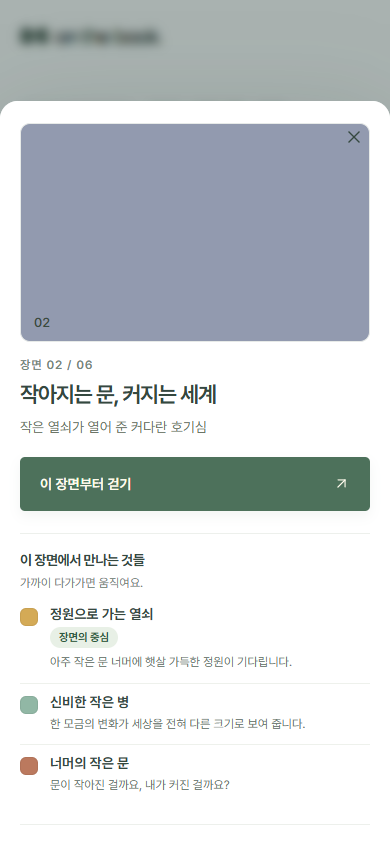
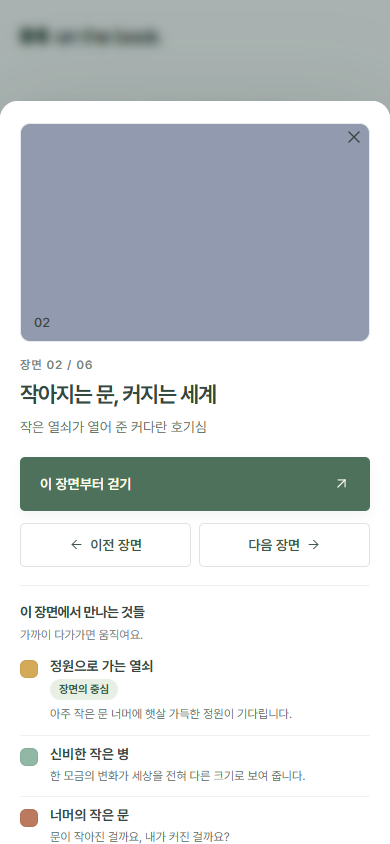
Move scene neighbours under the CTA and drop the preview and source
The scene panel no longer shows 미리 읽기 or the floor-reading note.
이전 장면 and 다음 장면 now sit right under 이 장면부터 걷기 as two
buttons of the same width; a missing side keeps a dimmed slot, and each
link's accessible name adds the target scene. The phone sheet shares the
markup.

The book detail's 원작 정보 section is gone with its markup, styles,
reveal selector and checks. The rights and source stay in the book data
and in the 3D world's 작품 소개 window.

Changed region(s): [[0.0308, 0.6161, 0.7692, 1.0], [0.6462, 0.6161, 0.7692, 0.6777], [0.0308, 0.955, 0.0923, 0.9858]]

diff --git a/tests/detail.test.js b/tests/detail.test.js
@@ -67,8 +67,8 @@ test("bookDetail opens the panel on the first scene when nothing is saved", () =
   assert.equal(count(html, 'data-enter-chapter="alice-1"'), 2);
   assert.match(html, /<div class="detail-cta"><small class="detail-cta-scene">01 · 흰 토끼를 따라서<\/small><button class="primary-button detail-enter" data-enter="alice" data-enter-chapter="alice-1">이 장면부터 걷기 /);
   assert.match(html, /<p class="reader-sr-only" id="scene-status" role="status"><\/p>/);
-  assert.match(html, /<h2 id="detail-source-title">원작 정보<\/h2>/);
-  assert.match(html, /href="https:\/\/www\.gutenberg\.org\/ebooks\/11" target="_blank" rel="noopener noreferrer">원작 정보 보기 ↗/);
+  // The left column ends with the intros; the source and rights stay in the 3D world's 작품 소개 window.
+  assert.doesNotMatch(html, /detail-source|원작 정보|gutenberg/);
   assert.doesNotMatch(html, /마지막에 머문 장면/);
 });
 
@@ -112,7 +112,7 @@ test("bookDetail escapes text and survives a chapter without placements", () => 
   assert.match(html, /장면 01 \/ 01/);
 });
 
-test("bookDetail puts the author and book intros between the journey and the source", () => {
+test("bookDetail puts the author and book intros after the journey, closing the left column", () => {
   const book = { ...alice, authorIntro: "첫 문단\n같은 문단의 둘째 줄\n\n  둘째 문단  ", bookIntro: "<b>책</b> 소개" };
   const html = bookDetail({ book, library });
   assert.match(html, /<section class="detail-section detail-intro" id="detail-author" aria-labelledby="detail-author-title"><div class="section-heading"><h2 id="detail-author-title">저자 소개<\/h2><\/div><p class="detail-intro-name">루이스 캐럴<\/p><div class="detail-prose"><p>첫 문단\n같은 문단의 둘째 줄<\/p><p>둘째 문단<\/p><\/div><\/section>/);
@@ -120,7 +120,7 @@ test("bookDetail puts the author and book intros between the journey and the sou
   const at = needle => html.indexOf(needle);
   assert.ok(at('id="detail-journey"') < at('id="detail-author"'));
   assert.ok(at('id="detail-author"') < at('id="detail-book-intro"'));
-  assert.ok(at('id="detail-book-intro"') < at('class="detail-source"'));
+  assert.match(html, /<p>&lt;b&gt;책&lt;\/b&gt; 소개<\/p><\/div><\/section>\s*<\/div>\s*<aside class="scene-panel"/);
   assert.doesNotMatch(html, /detail-intro-empty|준비 중이에요/);
 });
 
@@ -155,19 +155,20 @@ test("the book schema keeps the intros, fills them in for older data and caps th
   }
 });
 
-test("scenePanel shows the scene, the first paragraph only and the placements with the main one first", () => {
+test("scenePanel shows the scene, the neighbour buttons under the CTA and the placements with the main one first", () => {
   const html = scenePanel({ book: alice, chapter: alice.chapters[1], library });
   assert.match(html, /^<span class="scene-image image-placeholder" data-theme="night" role="img" aria-label="장면 이미지 준비 중"><span class="scene-number">02<\/span><\/span><span class="eyebrow">장면 02 \/ 06<\/span><h2 id="panel-scene-title">작아지는 문, 커지는 세계<\/h2><p class="detail-meta">작은 열쇠가 열어 준 커다란 호기심<\/p><button class="primary-button detail-enter" data-enter="alice" data-enter-chapter="alice-2">이 장면부터 걷기 /);
+  // Previous and next come straight after the CTA; the visible words stay the start of each accessible name.
+  assert.match(html, /이 장면부터 걷기 <i data-lucide="arrow-up-right" aria-hidden="true"><\/i><\/button><nav class="neighbor-nav" aria-label="이어지는 장면"><a class="neighbor-link" href="\?book=alice&amp;scene=alice-1" data-scene="alice-1" aria-label="이전 장면: 01 흰 토끼를 따라서"><i data-lucide="arrow-left" aria-hidden="true"><\/i> 이전 장면<\/a><a class="neighbor-link" href="\?book=alice&amp;scene=alice-3" data-scene="alice-3" aria-label="다음 장면: 03 버섯 숲의 수수께끼">다음 장면 <i data-lucide="arrow-right" aria-hidden="true"><\/i><\/a><\/nav><section class="panel-section" id="panel-figures"/);
+  assert.equal(count(html, 'class="neighbor-link"'), 2);
   assert.match(html, /<h3 id="panel-figures-title">이 장면에서 만나는 것들<\/h3><p class="panel-hint">가까이 다가가면 움직여요\.<\/p>/);
   assert.equal(count(html, 'class="figure-chip"'), 3);
   assert.match(html, /<strong>정원으로 가는 열쇠<\/strong><span class="journey-badge">장면의 중심<\/span><span class="figure-story">아주 작은 문 너머에 햇살 가득한 정원이 기다립니다\.<\/span>/);
   assert.equal(count(html, '<span class="journey-badge">장면의 중심</span>'), 1);
   assert.match(html, /class="figure-chip" style="background:#d4aa56"/);
-  assert.match(html, /<h3 id="panel-preview-title">미리 읽기<\/h3><div class="reading-text"><p>굴 아래에는 문이 가득한 긴 복도가 있었습니다\./);
-  assert.doesNotMatch(html, /작은 병과 케이크를 만난 앨리스/);
-  assert.match(html, /<p class="muted detail-note">이어지는 글은 3D 안에서 장면의 중심 모델에 다가가면 바닥 글귀로 읽을 수 있어요\.<\/p>/);
-  assert.equal(count(html, 'class="neighbor-link"'), 2);
-  assert.match(html, /<nav class="neighbor-nav" aria-label="이어지는 장면"><a class="neighbor-link" href="\?book=alice&amp;scene=alice-1" data-scene="alice-1"><i data-lucide="arrow-left" aria-hidden="true"><\/i> 01 흰 토끼를 따라서<\/a><a class="neighbor-link" href="\?book=alice&amp;scene=alice-3" data-scene="alice-3">03 버섯 숲의 수수께끼 <i data-lucide="arrow-right" aria-hidden="true"><\/i><\/a><\/nav>$/);
+  // The panel ends with the placements: no preview reading, no story text, no floor-reading note.
+  assert.match(html, /<\/ul><\/section>$/);
+  assert.doesNotMatch(html, /미리 읽기|reading-text|detail-note|바닥 글귀|panel-preview|굴 아래에는/);
   assert.doesNotMatch(html, /<main|detail-crumbs|neighbor-all|data-scene-book|마지막에 머문 장면|<img/);
 });
 
@@ -178,7 +179,6 @@ test("scenePanel marks the saved scene and keeps its ids unique with a prefix", 
   const sheet = scenePanel({ book: alice, chapter: alice.chapters[1], library, prefix: "sheet" });
   assert.match(sheet, /<h2 id="sheet-scene-title">/);
   assert.match(sheet, /id="sheet-figures" aria-labelledby="sheet-figures-title"/);
-  assert.match(sheet, /id="sheet-preview" aria-labelledby="sheet-preview-title"/);
   assert.doesNotMatch(sheet, /id="panel-|aria-labelledby="panel-/);
 });
 
@@ -194,29 +194,23 @@ test("scenePanel shows the studio thumbnail over the theme tint when one is regi
   assert.doesNotMatch(spiky, /aria-label="a"<b>/);
 });
 
-test("scenePanel drops the missing neighbour and the floor-reading note when the floor is off", () => {
+test("scenePanel keeps a dimmed slot for a missing neighbour so both buttons stay the same width", () => {
   const first = scenePanel({ book: alice, chapter: alice.chapters[0], library });
   assert.equal(count(first, 'class="neighbor-link"'), 1);
-  assert.match(first, /<nav class="neighbor-nav" aria-label="이어지는 장면"><span><\/span><a class="neighbor-link" href="\?book=alice&amp;scene=alice-2" data-scene="alice-2">02 작아지는 문, 커지는 세계/);
+  assert.match(first, /<nav class="neighbor-nav" aria-label="이어지는 장면"><span class="neighbor-link is-disabled" aria-hidden="true"><i data-lucide="arrow-left" aria-hidden="true"><\/i> 이전 장면<\/span><a class="neighbor-link" href="\?book=alice&amp;scene=alice-2" data-scene="alice-2" aria-label="다음 장면: 02 작아지는 문, 커지는 세계">다음 장면 /);
   assert.match(first, /장면 01 \/ 06/);
   const last = scenePanel({ book: alice, chapter: alice.chapters[5], library });
   assert.equal(count(last, 'class="neighbor-link"'), 1);
-  assert.match(last, /data-scene="alice-5">.*<\/a><span><\/span><\/nav>$/);
-  const silent = scenePanel({ book: alice, chapter: { ...alice.chapters[1], floorEnabled: false }, library });
-  assert.match(silent, /굴 아래에는 문이 가득한/);
-  assert.doesNotMatch(silent, /바닥 글귀로 읽을 수 있어요/);
+  assert.match(last, /data-scene="alice-5" aria-label="이전 장면: 05 장미 정원의 여왕"><i data-lucide="arrow-left" aria-hidden="true"><\/i> 이전 장면<\/a><span class="neighbor-link is-disabled" aria-hidden="true">다음 장면 <i data-lucide="arrow-right" aria-hidden="true"><\/i><\/span><\/nav>/);
 });
 
 test("scenePanel omits the sections that have nothing to show and escapes the placement colour", () => {
   const bare = { ...alice.chapters[2], body: "", placements: [], mainPlacementId: null };
   const html = scenePanel({ book: alice, chapter: bare, library });
-  assert.doesNotMatch(html, /id="panel-preview"|id="panel-figures"/);
+  assert.doesNotMatch(html, /id="panel-figures"/);
   assert.match(html, /class="neighbor-nav"/);
   assert.match(html, /data-scene="alice-2"/);
   assert.match(html, /data-scene="alice-4"/);
-  const single = scenePanel({ book: alice, chapter: { ...alice.chapters[2], body: "한 문단만 있어요." }, library });
-  assert.match(single, /<div class="reading-text"><p>한 문단만 있어요\.<\/p><\/div>/);
-  assert.doesNotMatch(single, /바닥 글귀로 읽을 수 있어요/);
   const unknownModel = scenePanel({ book: alice, chapter: { ...alice.chapters[2], placements: [{ ...alice.chapters[2].placements[0], modelId: "missing\">" }] }, library });
   assert.match(unknownModel, /style="background:var\(--accent\)"/);
   assert.doesNotMatch(unknownModel, /missing">/);

diff --git a/client/detail.js b/client/detail.js
@@ -1,4 +1,4 @@
-// Markup for the book detail page: the scrolling left column (hero, journey, author and book intros, source),
+// Markup for the book detail page: the scrolling left column (hero, journey, author and book intros),
 // the sticky scene panel, the phone bar and the phone sheet. No CSS or image imports here: `node --test` loads this file;
 // main.js imports detail.css.
 import { esc, icon } from "../shared/ui.js";
@@ -37,9 +37,6 @@ const themeChip = theme => `<span class="theme-chip" data-theme="${esc(theme)}" 
 
 const savedBadge = '<span class="journey-badge">마지막에 머문 장면</span>';
 
-const sourceNote = book =>
-  `<section class="detail-source" aria-labelledby="detail-source-title"><h2 id="detail-source-title">원작 정보</h2><p class="source-note">${esc(book.rights)}<br><a href="${esc(book.source)}" target="_blank" rel="noopener noreferrer">원작 정보 보기 ↗</a></p></section>`;
-
 // Blank lines split paragraphs. Stored data is not re-parsed, so a field added later may be missing.
 const paragraphsOf = text => String(text ?? "").split(/\n\s*\n/).map(p => p.trim()).filter(Boolean);
 
@@ -62,21 +59,20 @@ export function scenePanel({ book, chapter, library, progress = {}, preview = fa
   const index = indexOf(book, chapter);
   const previous = book.chapters[index - 1], next = book.chapters[index + 1];
   const saved = savedChapter(book, progress);
-  const paragraphs = paragraphsOf(chapter.body);
   const main = mainPlacement(chapter);
   const figures = main ? [main, ...chapter.placements.filter(p => p !== main)] : [];
   const colorOf = placement => library.models.find(m => m.id === placement.modelId)?.color || "var(--accent)";
-  const sceneLink = (target, label) =>
-    `<a class="neighbor-link" href="${esc(detailUrl({ book: book.id, scene: target.id, preview }))}" data-scene="${esc(target.id)}">${label}</a>`;
+  // Previous and next scene as two equal buttons under the CTA. The visible words open the accessible name, which
+  // adds the target scene. A missing side keeps a dimmed slot, hidden from assistive tech, so the widths match.
+  const neighbor = (target, label, content) => target
+    ? `<a class="neighbor-link" href="${esc(detailUrl({ book: book.id, scene: target.id, preview }))}" data-scene="${esc(target.id)}" aria-label="${label}: ${two(indexOf(book, target) + 1)} ${esc(target.title)}">${content}</a>`
+    : `<span class="neighbor-link is-disabled" aria-hidden="true">${content}</span>`;
+  const neighborNav = `<nav class="neighbor-nav" aria-label="이어지는 장면">${neighbor(previous, "이전 장면", `${icon("arrow-left")} 이전 장면`)}${neighbor(next, "다음 장면", `다음 장면 ${icon("arrow-right")}`)}</nav>`;
   const figureSection = figures.length
     ? `<section class="panel-section" id="${prefix}-figures" aria-labelledby="${prefix}-figures-title"><h3 id="${prefix}-figures-title">이 장면에서 만나는 것들</h3><p class="panel-hint">가까이 다가가면 움직여요.</p><ul class="figure-list">${figures.map(p => `<li><span class="figure-chip" style="background:${esc(colorOf(p))}" aria-hidden="true"></span><span class="figure-copy"><strong>${esc(p.title)}</strong>${p === main ? '<span class="journey-badge">장면의 중심</span>' : ""}${p.story ? `<span class="figure-story">${esc(p.story)}</span>` : ""}</span></li>`).join("")}</ul></section>`
     : "";
-  // Only the first paragraph is shown; the rest waits on the floor inside the 3D world.
-  const previewSection = paragraphs.length
-    ? `<section class="panel-section" id="${prefix}-preview" aria-labelledby="${prefix}-preview-title"><h3 id="${prefix}-preview-title">미리 읽기</h3><div class="reading-text"><p>${esc(paragraphs[0])}</p></div>${paragraphs.length > 1 && chapter.floorEnabled !== false ? '<p class="muted detail-note">이어지는 글은 3D 안에서 장면의 중심 모델에 다가가면 바닥 글귀로 읽을 수 있어요.</p>' : ""}</section>`
-    : "";
   // The image slot is always 16:10 in the panel; a studio thumbnail fills it over the theme tint.
-  return `<span class="scene-image image-placeholder${chapter.thumbnail ? " has-image" : ""}" data-theme="${esc(chapter.theme)}" role="img" aria-label="${chapter.thumbnail ? `${esc(chapter.title)} 장면 이미지` : "장면 이미지 준비 중"}">${chapter.thumbnail ? `<img src="${esc(chapter.thumbnail)}" alt="" decoding="async" draggable="false">` : ""}<span class="scene-number">${two(index + 1)}</span></span><span class="eyebrow">장면 ${two(index + 1)} / ${two(book.chapters.length)}</span><h2 id="${prefix}-scene-title">${esc(chapter.title)}</h2>${chapter.subtitle ? `<p class="detail-meta">${esc(chapter.subtitle)}</p>` : ""}${saved?.id === chapter.id ? savedBadge : ""}${enterButton(book, chapter)}${figureSection}${previewSection}<nav class="neighbor-nav" aria-label="이어지는 장면">${previous ? sceneLink(previous, `${icon("arrow-left")} ${two(index)} ${esc(previous.title)}`) : "<span></span>"}${next ? sceneLink(next, `${two(index + 2)} ${esc(next.title)} ${icon("arrow-right")}`) : "<span></span>"}</nav>`;
+  return `<span class="scene-image image-placeholder${chapter.thumbnail ? " has-image" : ""}" data-theme="${esc(chapter.theme)}" role="img" aria-label="${chapter.thumbnail ? `${esc(chapter.title)} 장면 이미지` : "장면 이미지 준비 중"}">${chapter.thumbnail ? `<img src="${esc(chapter.thumbnail)}" alt="" decoding="async" draggable="false">` : ""}<span class="scene-number">${two(index + 1)}</span></span><span class="eyebrow">장면 ${two(index + 1)} / ${two(book.chapters.length)}</span><h2 id="${prefix}-scene-title">${esc(chapter.title)}</h2>${chapter.subtitle ? `<p class="detail-meta">${esc(chapter.subtitle)}</p>` : ""}${saved?.id === chapter.id ? savedBadge : ""}${enterButton(book, chapter)}${neighborNav}${figureSection}`;
 }
 
 // The phone bar: the selected scene's number and title beside the entry button.
@@ -100,7 +96,6 @@ export function bookDetail({ book, library, progress = {}, preview = false, chap
       <section class="detail-section" id="detail-journey" aria-labelledby="detail-journey-title"><div class="section-heading"><div><h2 id="detail-journey-title">이 책의 여정</h2><p><span class="journey-hint journey-hint--wide">장면을 고르면 오른쪽에서 그 장면을 먼저 볼 수 있어요.</span><span class="journey-hint journey-hint--narrow">장면을 고르면 그 장면을 먼저 볼 수 있어요.</span></p></div></div><ol class="journey-list">${rows}</ol></section>
       ${introSection({ id: "detail-author", title: "저자 소개", text: book.authorIntro, pending: "저자 소개를 준비 중이에요.", name: book.author })}
       ${introSection({ id: "detail-book-intro", title: "책 소개", text: book.bookIntro, pending: "책 소개를 준비 중이에요." })}
-      ${sourceNote(book)}
     </div>
     <aside class="scene-panel" aria-labelledby="panel-scene-title">${scenePanel({ book, chapter, library, progress, preview })}</aside>
     <div class="detail-cta">${sceneBar({ book, chapter })}</div>

diff --git a/client/detail.css b/client/detail.css
@@ -42,9 +42,6 @@
 .theme-chip[data-theme="tea"], .scene-image[data-theme="tea"] { background: #d7c9b6; }
 .theme-chip[data-theme="rose"], .scene-image[data-theme="rose"] { background: #d8c6b7; }
 .theme-chip[data-theme="gold"], .scene-image[data-theme="gold"] { background: #dcca98; }
-.detail-source { padding-top: 34px; margin-top: 34px; }
-.detail-source h2 { margin: 0 0 10px; font-size: 15px; color: #4f5f56; }
-.detail-source .source-note { padding: 0; border: 0; font-size: 12px !important; line-height: 1.8; color: #7f8982; }
 /* The scene panel is fixed at the screen's height, 24px clear above and below, and does not move while the page
    scrolls. A taller panel scrolls inside, with no visible scrollbar. Its right edge meets the .store-content box
    (1280px column, 40px gutters above 850px). z-index 4 lifts it over the header row (3); toasts and the curtain
@@ -72,13 +69,12 @@
 .figure-copy strong { font-size: 14px; font-weight: 650; }
 .figure-copy .journey-badge { align-self: flex-start; }
 .figure-story { font-size: 12px; line-height: 1.65; color: #6b776f; }
-.panel-section .reading-text { margin: 0; font-size: 14px; }
-.detail-note { margin: 10px 0 0; font-size: 12px; }
-.neighbor-nav { display: flex; justify-content: space-between; gap: 12px; margin-top: 18px; padding-top: 14px; border-top: 1px solid #edf0ec; font-size: 13px; }
-.neighbor-link { display: inline-flex; align-items: center; gap: 8px; font-weight: 600; color: #3f5a49; }
-.neighbor-link:hover { color: var(--accent); text-decoration: none; }
+/* Previous and next: two buttons of the same width right under the CTA. A missing side stays as a dimmed slot. */
+.neighbor-nav { display: grid; grid-template-columns: 1fr 1fr; gap: 8px; margin-top: 8px; }
+.neighbor-link { display: flex; align-items: center; justify-content: center; gap: 6px; min-height: 44px; padding: 10px 12px; border: 1px solid #dfe5de; border-radius: 5px; background: #fff; color: #3f5a49; font-size: 14px; font-weight: 600; white-space: nowrap; }
+.neighbor-link:hover { border-color: var(--accent); color: var(--accent); text-decoration: none; }
+.neighbor-link.is-disabled { border-color: #edf0ec; background: #f7f9f6; color: #b2bbb4; }
 .neighbor-link svg { width: 15px; height: 15px; }
-.neighbor-nav > :last-child { text-align: right; }
 .detail-enter { gap: 14px; padding: 14px 20px; font-size: 14px; font-weight: 600; }
 .detail-enter svg { width: 17px; height: 17px; }
 /* The phone bar exists in the markup at every width but only shows in the one-column layout. */
@@ -101,7 +97,6 @@
   .detail-cta { display: flex; align-items: center; justify-content: space-between; gap: 12px; order: 99; position: sticky; bottom: 0; z-index: 5; margin: 0 -24px; padding: 10px 24px calc(10px + env(safe-area-inset-bottom)); background: #fff; border-top: 1px solid var(--line); }
   .detail-cta-scene { min-width: 0; overflow: hidden; text-overflow: ellipsis; white-space: nowrap; font-size: 13px; color: #4f5f56; }
   .detail-cta .primary-button { flex: none; }
-  .detail-source { padding-bottom: 8px; }
 }
 @media (max-width: 600px) {
   .detail-hero { grid-template-columns: 112px minmax(0, 1fr); gap: 18px; align-items: start; }

diff --git a/client/transitions.js b/client/transitions.js
@@ -39,7 +39,7 @@ function reveal(app) {
   const groups = app.querySelector(".library-page")
     ? [".site-header", ".featured-section", ".quick-menu", ".catalog", ".scene-section, .experience-banner", ".site-footer"]
     : app.querySelector(".detail-page")
-      ? [".site-header", ".detail-hero", "#detail-journey, .detail-intro, .detail-source", ".scene-panel, .detail-cta"]
+      ? [".site-header", ".detail-hero", "#detail-journey, .detail-intro", ".scene-panel, .detail-cta"]
       : [".site-header", ".journey-controls", ".touch-pad, .move-hint", ".site-footer"];
   groups.forEach((selector, index) => {
     for (const element of app.querySelectorAll(selector)) {

diff --git a/docs/superpowers/specs/2026-09-28-detail-pages-design.md b/docs/superpowers/specs/2026-09-28-detail-pages-design.md
@@ -7,7 +7,7 @@
 - 처음에는 작품 상세(`?book=`)와 장면 상세(`?book=&scene=`) 두 페이지(두 뎁스)로 설계·구현했다(PR #3, 커밋 c60f7b6 까지). 같은 날 사용자가 밀리의서재 도서 상세처럼 **한 페이지 두 열**로 합치기로 결정했다. 왼쪽 열은 스크롤되는 작품 정보와 장면 목록, 오른쪽은 스크롤을 따라다니는 장면 패널이다.
 - 이 문서는 그 결정 이후의 최종 설계다. 두 뎁스 구현에서 바뀌는 점은 18절에 모았고, 구현 계획은 그 차이만 다룬다.
 - 그보다 앞서 정한 것(카드가 링크가 되는 홈 변경, 주소 규칙의 골격, `book-meta.js`·`detail.js` 분리, 표지·썸네일 표시)은 그대로 유효하다.
-- 2026-09-29 사용자 요청으로 두 가지를 더했다. 장면 패널과 시트의 스크롤바를 숨겼고(5절), '이 책의 여정' 다음에 저자 소개·책 소개 섹션과 이를 입력하는 관리자 칸을 넣었다(19절). 처음에는 빈 칸의 섹션을 숨겼으나, 같은 날 사용자 요청으로 섹션을 두고 '준비 중' 문구를 보이게 바꿨다. 이어서 왼쪽 열 섹션 사이의 구분선을 모두 없앴다(6절). 그다음 작품 상세에서 푸터와 헤더의 소개·책장으로·물음표를 빼 로고만 남기고, 장면 패널을 스크롤을 따라오는 sticky 대신 화면 높이에 고정했다(5절).
+- 2026-09-29 사용자 요청으로 두 가지를 더했다. 장면 패널과 시트의 스크롤바를 숨겼고(5절), '이 책의 여정' 다음에 저자 소개·책 소개 섹션과 이를 입력하는 관리자 칸을 넣었다(19절). 처음에는 빈 칸의 섹션을 숨겼으나, 같은 날 사용자 요청으로 섹션을 두고 '준비 중' 문구를 보이게 바꿨다. 이어서 왼쪽 열 섹션 사이의 구분선을 모두 없앴다(6절). 그다음 작품 상세에서 푸터와 헤더의 소개·책장으로·물음표를 빼 로고만 남기고, 장면 패널을 스크롤을 따라오는 sticky 대신 화면 높이에 고정했다(5절). 마지막으로 패널의 미리 읽기와 그 아래 글을 없애고 이전·다음을 CTA 아래 같은 너비의 버튼 둘로 옮겼으며(7절), 왼쪽 열의 원작 정보 섹션을 없앴다(6절).
 
 ## 1. 배경과 목표
 
@@ -26,7 +26,7 @@
 ## 2. 범위와 비범위
 
 범위
-- 작품 상세 한 화면(`?book=`, `?book=&scene=`). 두 열 뼈대, 왼쪽 열(히어로·여정·저자 소개·책 소개·원작 정보), 오른쪽 장면 패널, 850px 이하의 장면 시트와 하단 고정 CTA.
+- 작품 상세 한 화면(`?book=`, `?book=&scene=`). 두 열 뼈대, 왼쪽 열(히어로·여정·저자 소개·책 소개), 오른쪽 장면 패널, 850px 이하의 장면 시트와 하단 고정 CTA.
 - 홈 카드 연결(도서 카드, 장면 카드, 추천 히어로 카드, "읽던 이야기" 카드). 직행 경로는 남기지 않는다.
 - 주소 해석, 브라우저 히스토리, 커튼 전환, 초점 이동, 책장 위치 복원, 장면 선택의 주소 반영.
 - 검사(`tests/detail.test.js`, `tests/catalog.mjs`, `tests/mobile-entry.mjs`, `tests/home-admin.mjs` 의 상세 부분, `tests/capture.mjs`), README, `docs/ADMIN-GUIDE.md`, `client/index.html` 설명 문구, 전환 스펙 10절.
@@ -81,7 +81,7 @@
 
 - 장면 선택은 히스토리 항목을 만들지 않는다. 3D 월드에서 뒤로가기를 누르면 마지막에 선택했던 장면이 주소에 남아 있어 그 장면이 선택된 작품 상세로 돌아온다. 한 번 더 누르면 홈이다.
 - 홈에서 상세로 갈 때 `catalogState.scroll` 과 누른 카드의 선택자(`[data-book="alice"]`, `[data-scene-chapter="alice-2"]`, `[data-feature-book="alice"]`)를 저장하고 `restoreCatalogPosition()` 이 초점을 되돌린다(기존).
-- 장면을 고르면 초점은 누른 여정 행(또는 패널의 이전·다음 링크)에 남는다. 패널은 안쪽 스크롤을 맨 위로 되돌리고, 시각적으로 숨긴 `role="status"` 문구 "`02 작아지는 문, 커지는 세계` 장면을 골랐어요"가 바뀐다. 패널 전체를 `aria-live` 로 두면 매번 패널을 통째로 읽어 주므로 그렇게 하지 않는다.
+- 장면을 고르면 초점은 누른 여정 행(또는 패널의 이전·다음 버튼)에 남는다. 새 패널에서 같은 쪽 버튼이 흐린 자리면 CTA 로 옮긴다. 패널은 안쪽 스크롤을 맨 위로 되돌리고, 시각적으로 숨긴 `role="status"` 문구 "`02 작아지는 문, 커지는 세계` 장면을 골랐어요"가 바뀐다. 패널 전체를 `aria-live` 로 두면 매번 패널을 통째로 읽어 주므로 그렇게 하지 않는다.
 - `popstate` 는 열린 `dialog`(장면 시트 포함)를 닫고 `resolveView()` 결과로 다시 그린다. 홈으로 돌아온 경우에만 `restoreCatalogPosition()` 을 부른다(기존).
 
 ## 5. 공통 셸과 두 열 뼈대
@@ -96,8 +96,7 @@ main.detail-page.store-content#main-content[data-view="book"]
     section.detail-hero           표지·분류·제목·저자·소개
     section.detail-section#detail-journey   이 책의 여정(장면 목록)
     section.detail-section.detail-intro#detail-author       저자 소개(비어 있으면 준비 중 문구, 19절)
-    section.detail-section.detail-intro#detail-book-intro   책 소개(비어 있으면 준비 중 문구, 19절)
-    section.detail-source         원작 정보
+    section.detail-section.detail-intro#detail-book-intro   책 소개(비어 있으면 준비 중 문구, 19절). 왼쪽 열의 끝
   aside.scene-panel[aria-labelledby="panel-scene-title"]   오른쪽 열. 화면 높이에 고정(fixed)
     (7절의 패널 내용)
   div.detail-cta                  850px 이하에서만 보이는 하단 고정 바
@@ -107,14 +106,14 @@ main.detail-page.store-content#main-content[data-view="book"]
 - 1101px 이상: `grid-template-columns: minmax(0, 1fr) 400px`, 열 간격 48px. 851~1100px: 오른쪽 열 340px, 간격 32px. 850px 이하: 한 열. `.store-content` 로 홈과 같은 1280px 폭과 좌우 여백을 쓴다.
 - 오른쪽 `aside.scene-panel` 은 `position: fixed; top: 24px; bottom: 24px` 로 화면 높이(위아래 24px 여백)에 고정되어, 페이지 맨 위에서 끝까지 스크롤해도 같은 자리에 있다(2026-09-29 사용자 요청. 그 전에는 `position: sticky` 라 맨 위에서는 헤더 아래에 있다가 스크롤하면 올라와 붙었다). 오른쪽 끝은 `.store-content` 콘텐츠 상자의 오른쪽 끝에 맞춘다(`right: max(40px, calc((100% - 1280px) / 2 + 40px))`, 851px 이상의 좌우 여백 40px). 폭은 격자의 오른쪽 열과 같은 400px(1100px 이하 340px)이고, 격자의 오른쪽 열은 비워 둬서 왼쪽 열 폭은 그대로다. `z-index: 4` 로 헤더 줄(3) 위, 알림(100)·커튼(1000) 아래에 둔다. 패널이 화면보다 길면 패널 안에서만 스크롤되고, 스크롤바는 보이지 않게 숨긴다(`scrollbar-width: none`, 사파리용 `::-webkit-scrollbar`). 흰 배경, 1px 경계선(`#e7ebe7`), 모서리 14px, 안쪽 여백 20px.
 - 850px 이하에서는 `aside.scene-panel` 을 `display: none` 으로 숨긴다. 같은 내용은 여정 행을 눌렀을 때 장면 시트(7절)로 보인다. 하단 고정 바 `.detail-cta` 는 851px 이상에서 `display: none` 이다. 그래서 어떤 폭에서도 보이는 CTA 는 하나이고, 숨긴 쪽은 접근성 트리에서도 빠진다.
-- 등장 순서: `transitions.js` 의 `reveal()` 에서 `.detail-page` 그룹은 `[".site-header", ".detail-hero", "#detail-journey, .detail-intro, .detail-source", ".scene-panel, .detail-cta"]` 다(작품 상세에는 푸터가 없다).
+- 등장 순서: `transitions.js` 의 `reveal()` 에서 `.detail-page` 그룹은 `[".site-header", ".detail-hero", "#detail-journey, .detail-intro", ".scene-panel, .detail-cta"]` 다(작품 상세에는 원작 정보와 푸터가 없다).
 - 전환 후 초점은 `h1#detail-title`(책 제목, `tabindex="-1"`). `transitionPage()` 의 기본 초점 대상 순서 `#library-title` → `#detail-title` → `#world canvas, #fallback-read` 는 기존과 같다.
 
 ## 6. 왼쪽 열
 
 `client/detail.js` 의 `bookDetail({ book, chapter, library, progress, preview })` 가 페이지 전체(왼쪽 열 + 패널 + 하단 바 + 상태 문구)를 돌려준다. `chapter` 는 선택된 장면이다.
 
-왼쪽 열의 섹션(히어로, 이 책의 여정, 저자 소개, 책 소개, 원작 정보) 사이에는 구분선이 없고 여백으로만 나눈다. 섹션 위 여백은 70px(600px 이하 58px), 원작 정보 위는 68px 다. 여정 목록의 행 구분선, 장면 패널 안의 구분선, 푸터 위 선은 그대로 둔다(2026-09-29 사용자 요청).
+왼쪽 열의 섹션(히어로, 이 책의 여정, 저자 소개, 책 소개) 사이에는 구분선이 없고 여백으로만 나눈다. 섹션 위 여백은 70px(600px 이하 58px)다. 여정 목록의 행 구분선과 장면 패널 안의 구분선은 그대로 둔다(2026-09-29 사용자 요청).
 
 히어로 `.detail-hero`
 - 왼쪽: `bookCover(book)` 자리(`.catalog-cover.image-placeholder`, 2:2.85). 표지가 등록되어 있으면 그 `<img>`(`alt=""`), 없으면 `role="img" aria-label="표지 이미지 준비 중"` 인 빈 자리. 데스크톱 160px, 600px 이하 112px, 370px 이하에서는 위로 올라가 가운데 130px.
@@ -129,10 +128,10 @@ main.detail-page.store-content#main-content[data-view="book"]
 - 대표 모델은 `chapter.mainPlacementId` 가 가리키는 배치의 `title`, 없으면 첫 배치, 배치가 없으면 생략. 테마 칩 색은 meadow `#cad7aa`, night `#929aaf`, tea `#d7c9b6`, rose `#d8c6b7`, gold `#dcca98`(3D 월드 바닥색).
 
 저자 소개·책 소개 `.detail-section.detail-intro`
-- 여정 다음, 원작 정보 앞에 저자 소개, 책 소개 순서로 늘 놓는다. 비어 있으면 본문 자리에 준비 중 문구를 보인다. 자세한 규칙은 19절.
+- 여정 다음에 저자 소개, 책 소개 순서로 늘 놓고, 책 소개가 왼쪽 열의 끝이다. 비어 있으면 본문 자리에 준비 중 문구를 보인다. 자세한 규칙은 19절.
 
-원작 정보 `.detail-source`
-- `h2` "원작 정보", `p.source-note` 에 `book.rights`, 줄 바꿈, `<a href="{book.source}" target="_blank" rel="noopener noreferrer">원작 정보 보기 ↗</a>`.
+원작 정보
+- 2026-09-29 사용자 요청으로 작품 상세의 원작 정보 섹션(`.detail-source`, 권리 문구와 "원작 정보 보기 ↗")과 그 전용 코드·CSS·검사를 없앴다. 책 데이터의 `rights`·`source` 와 관리자 입력 칸, 공개 조건은 그대로이고, 권리·출처는 3D 공간 안의 "작품 소개" 창에서 계속 보인다.
 
 ## 7. 장면 패널
 
@@ -142,11 +141,10 @@ main.detail-page.store-content#main-content[data-view="book"]
 1. 이미지 `.scene-image.image-placeholder[data-theme]`: 패널 폭 전체, **항상 16:10**(`aspect-ratio: 16 / 10`), 모서리 10px, 배경은 테마 칩 색, 왼쪽 아래 `.scene-number` "02". 썸네일(`chapter.thumbnail`)이 있으면 `.has-image` 를 더하고 `<img>`(`alt=""`, `object-fit: cover`)가 자리를 채우며 번호는 밝은 알약 모양으로 위에 남는다. 이름표는 썸네일이 있으면 `aria-label="{장면 제목} 장면 이미지"`, 없으면 `"장면 이미지 준비 중"`. 패널이 좁아(340~400px) 16:10 이미지가 그대로 들어가므로 예전의 가로 띠와 잘림 문제가 없다.
 2. `.eyebrow` "`장면 02 / 06`", `h2#panel-scene-title` 장면 제목, `p.detail-meta` 부제(비어 있으면 생략). 저장된 장면이면 제목 아래에 배지 "마지막에 머문 장면".
 3. CTA: `<button class="primary-button detail-enter" data-enter="alice" data-enter-chapter="alice-2">이 장면부터 걷기 ↗</button>`, 패널 폭 전체. 저장된 장면과 같아도 문구는 바꾸지 않는다. 어느 장면이든 들어가면 그 장면이 저장된 장면이 된다(기존 규칙).
-4. 이 장면에서 만나는 것들 `#panel-figures`: `h3` "이 장면에서 만나는 것들", 설명 "가까이 다가가면 움직여요.", `<ul class="figure-list">` 한 열. 배치는 대표 배치(`mainPlacementId`)가 먼저, 나머지는 원래 순서. 각 `li`: 색 칩 `.figure-chip`(모델 `color`, 없으면 `--accent`), `strong` 제목, `span.figure-story` 이야기(비어 있으면 생략), 대표 배치에만 배지 "장면의 중심". 배치가 없으면 이 묶음을 만들지 않는다.
-5. 미리 읽기 `#panel-preview`: `h3` "미리 읽기", `chapter.body` 를 `\n\n` 으로 나눈 첫 문단만 `.reading-text p`. 문단이 둘 이상이고 `chapter.floorEnabled !== false` 이면 `p.muted` "이어지는 글은 3D 안에서 장면의 중심 모델에 다가가면 바닥 글귀로 읽을 수 있어요.". 본문이 비어 있으면 이 묶음을 만들지 않는다. `floorText` 는 쓰지 않는다.
-6. 이어지는 장면 `nav.neighbor-nav[aria-label="이어지는 장면"]`: 왼쪽 "← 01 흰 토끼를 따라서", 오른쪽 "03 버섯 숲의 수수께끼 →". 링크는 `a.neighbor-link[href={detailUrl scene}][data-scene]` 이고 여정 행과 같은 규칙으로 선택을 바꾼다. 첫 장면은 이전을, 마지막 장면은 다음을 만들지 않는다. "작품 전체 보기"와 브레드크럼은 없다. 작품이 바로 왼쪽에 있기 때문이다.
+4. 이어지는 장면 `nav.neighbor-nav[aria-label="이어지는 장면"]`: CTA 바로 아래에 같은 너비의 버튼 두 개(`grid-template-columns: 1fr 1fr`, 간격 8px, 높이 44px, 모서리 5px, 흰 바탕에 1px 테두리). 왼쪽 "← 이전 장면", 오른쪽 "다음 장면 →". 링크는 `a.neighbor-link[href={detailUrl scene}][data-scene]` 이고, `aria-label` 은 보이는 글 뒤에 대상 장면을 붙인 "이전 장면: 01 흰 토끼를 따라서" 꼴이다. 여정 행과 같은 규칙으로 선택을 바꾼다. 첫 장면의 이전과 마지막 장면의 다음은 흐린 자리 `span.neighbor-link.is-disabled[aria-hidden="true"]` 로 남겨 두 버튼의 폭을 맞춘다. "작품 전체 보기"와 브레드크럼은 없다. 작품이 바로 왼쪽에 있기 때문이다(2026-09-29 사용자 요청으로 패널 맨 아래의 글자 링크에서 이 버튼으로 바꿨다).
+5. 이 장면에서 만나는 것들 `#panel-figures`: `h3` "이 장면에서 만나는 것들", 설명 "가까이 다가가면 움직여요.", `<ul class="figure-list">` 한 열. 배치는 대표 배치(`mainPlacementId`)가 먼저, 나머지는 원래 순서. 각 `li`: 색 칩 `.figure-chip`(모델 `color`, 없으면 `--accent`), `strong` 제목, `span.figure-story` 이야기(비어 있으면 생략), 대표 배치에만 배지 "장면의 중심". 배치가 없으면 이 묶음을 만들지 않는다.
 
-패널의 제목 위계: 페이지의 `h1` 은 책 제목 하나이고 패널 제목은 `h2`, 패널 안 묶음은 `h3` 이다. 여정과 원작 정보의 `h2` 와 나란하다.
+패널의 제목 위계: 페이지의 `h1` 은 책 제목 하나이고 패널 제목은 `h2`, 패널 안 묶음은 `h3` 이다. 여정·저자 소개·책 소개의 `h2` 와 나란하다.
 
 850px 이하의 장면 시트
 - 여정 행을 누르면 기존 `modal()` 로 `<dialog class="modal scene-sheet">` 를 열고 그 안에 `scenePanel()` 결과를 넣는다. 시트는 화면 아래에서 올라오는 모양(`position: fixed; inset: auto 0 0 0; max-height: 88dvh; border-radius: 18px 18px 0 0`)이고 안쪽 스크롤을 가지며, 패널처럼 스크롤바는 숨긴다. 닫기 버튼·배경 클릭·Esc 는 `modal()` 의 기존 동작이며 닫히면 초점이 누른 행으로 돌아간다(`modal()` 이 이전 초점을 복원한다).
@@ -205,15 +203,14 @@ admin/
 | --- | --- |
 | 커튼 | 작품을 펼치는 중이에요… |
 | CTA | 이 장면부터 걷기 |
-| 섹션 제목 | 이 책의 여정 / 원작 정보 / 이 장면에서 만나는 것들 / 미리 읽기 |
+| 섹션 제목 | 이 책의 여정 / 저자 소개 / 책 소개 / 이 장면에서 만나는 것들 |
 | 섹션 설명 | 장면을 고르면 오른쪽에서 그 장면을 먼저 볼 수 있어요.(851px 이상) / 장면을 고르면 그 장면을 먼저 볼 수 있어요.(850px 이하) / 가까이 다가가면 움직여요. |
 | 배지 | 마지막에 머문 장면 / 장면의 중심 |
-| 안내 | 이어지는 글은 3D 안에서 장면의 중심 모델에 다가가면 바닥 글귀로 읽을 수 있어요. |
 | 상태 문구 | `{번호} {장면 제목}` 장면을 골랐어요 |
 | 이미지 자리 | 표지 이미지 준비 중 / 장면 이미지 준비 중 / 썸네일이 있으면 `{장면} 장면 이미지` |
 | 패널 eyebrow | 장면 02 / 06 |
 | 하단 바 | `02 · 장면 제목` |
-| 링크 | 원작 정보 보기 ↗ |
+| 이전·다음 버튼 | 이전 장면 / 다음 장면(읽는 이름은 "이전 장면: 01 흰 토끼를 따라서") |
 | 헤더 | 로고만(글자 버튼 없음) |
 | 홈 히어로 카드 | 작품 살펴보기 |
 | `aria-label` | `{책} — 작품 상세` / `{책} · {장면} — 작품 상세` / `이어지는 장면` / 시트 닫기 "닫기"(기존 `modal()`) |
@@ -233,7 +230,7 @@ admin/
 - 선택된 여정 행은 `aria-current="true"`. 여정 목록은 `ol`, 행 글자는 한 링크라 스크린 리더가 한 덩어리로 읽는다. 칩과 아이콘은 `aria-hidden`.
 - 패널은 `aside[aria-labelledby="panel-scene-title"]`, 이어지는 장면은 `nav[aria-label]`. 이미지 자리는 `role="img"` 와 `aria-label`.
 - 장면 시트는 `dialog.showModal()` 이라 초점이 안에 갇히고 Esc 로 닫힌다. 닫으면 초점이 누른 행으로 돌아간다.
-- 하단 바는 `env(safe-area-inset-bottom)` 을 더하고, 페이지 끝에 바 높이만큼 여백을 두어 원작 정보가 가려지지 않게 한다.
+- 하단 바는 `env(safe-area-inset-bottom)` 을 더하고, 페이지 끝에 바 높이만큼 여백을 두어 책 소개가 가려지지 않게 한다.
 - 새 애니메이션은 없다. 등장 순서는 `transitions.js` 가 `prefers-reduced-motion` 을 처리한다. 시트가 올라오는 움직임도 `prefers-reduced-motion: reduce` 에서는 즉시 나타난다.
 
 ## 14. 테스트
@@ -244,17 +241,17 @@ admin/
 
 - `detailUrl`(기존 검사 유지).
 - `bookDetail`: 저장 없음이면 여정 1행이 `aria-current="true"` 이고 패널 제목이 1장면, CTA `data-enter-chapter="alice-1"`. 저장(`alice-2`)이면 2행이 선택·배지, 패널이 2장면, 패널 제목 아래 배지. `chapter` 인자로 3장면을 넘기면 3행 선택·패널 3장면(주소로 연 경우). 히어로에 버튼이 없다(`data-enter` 는 패널과 하단 바에만, 합계 2개). 여정 행 `href` 가 `detailUrl` 과 같다. 표지가 있으면 `.detail-cover img` 하나, 없으면 "표지 이미지 준비 중". 제목에 `<` 가 든 가짜 책으로 이스케이프 확인.
-- `scenePanel`: 16:10 이미지 자리와 번호, 썸네일이 있으면 `has-image`·`<img>`·`aria-label="{제목} 장면 이미지"`(`"`·`<` 가 든 제목의 이스케이프 포함), 없으면 "장면 이미지 준비 중". `h2#panel-scene-title`. CTA 하나. 대표 배치가 먼저이고 "장면의 중심" 배지가 하나, 배치 없으면 묶음 없음. 첫 문단만, `floorEnabled: false` 면 안내 없음, 본문 없으면 묶음 없음. 첫 장면은 이전이, 마지막 장면은 다음이 없다. 저장된 장면이면 배지. 없는 챕터는 예외.
+- `scenePanel`: 16:10 이미지 자리와 번호, 썸네일이 있으면 `has-image`·`<img>`·`aria-label="{제목} 장면 이미지"`(`"`·`<` 가 든 제목의 이스케이프 포함), 없으면 "장면 이미지 준비 중". `h2#panel-scene-title`. CTA 하나. 대표 배치가 먼저이고 "장면의 중심" 배지가 하나, 배치 없으면 묶음 없음. 본문·미리 읽기·바닥 글귀 안내는 없고 패널은 배치 묶음으로 끝난다. 이전·다음 버튼은 CTA 바로 뒤에 오고, 첫 장면의 이전과 마지막 장면의 다음은 흐린 자리다. 저장된 장면이면 배지. 없는 챕터는 예외.
 - `sceneBar`: `02 · 작아지는 문, 커지는 세계` 와 `data-enter-chapter="alice-2"`.
 - 모든 링크가 `preview: true` 에서 `&preview=draft` 를 유지한다.
 
 ### 14.2 브라우저 검사 `tests/catalog.mjs`(4336 포트)
 
-1. 검색·분류·정렬 단계(기존) 뒤: `[data-book="alice"]` 클릭 → `.detail-page[data-view="book"]`, `#detail-title` "이상한 나라의 앨리스", 초점 `#detail-title`, 주소 `?book=alice`, `.journey-row` 6개 중 `[aria-current="true"]` 가 `alice-1`, `.scene-panel #panel-scene-title` "흰 토끼를 따라서", 상세 안 `img` 0개(시드). 여정 2행 클릭 → 커튼 없음(`.reader-curtain` 0), 주소 `?book=alice&scene=alice-2`, `history.length` 변화 없음(클릭 전후 `page.evaluate(() => history.length)` 비교), 패널 제목 "작아지는 문, 커지는 세계", `aria-current` 가 2행으로, `#scene-status` 에 "02". 패널 "03 …" 다음 링크 클릭 → 3장면, 주소 `scene=alice-3`. 여정 1행 클릭 → 1장면, 주소 `scene=alice-1`. 패널 CTA 클릭 → `#world canvas`, 주소 `book=alice&chapter=alice-1`. 이어서 기존 "작품 소개" 모달 검사와 3D 안 이동·다음 챕터(02) 검사가 그대로 이어진다.
+1. 검색·분류·정렬 단계(기존) 뒤: `[data-book="alice"]` 클릭 → `.detail-page[data-view="book"]`, `#detail-title` "이상한 나라의 앨리스", 초점 `#detail-title`, 주소 `?book=alice`, `.journey-row` 6개 중 `[aria-current="true"]` 가 `alice-1`, `.scene-panel #panel-scene-title` "흰 토끼를 따라서", 상세 안 `img` 0개(시드). 여정 2행 클릭 → 커튼 없음(`.reader-curtain` 0), 주소 `?book=alice&scene=alice-2`, `history.length` 변화 없음(클릭 전후 `page.evaluate(() => history.length)` 비교), 패널 제목 "작아지는 문, 커지는 세계", `aria-current` 가 2행으로, `#scene-status` 에 "02". 패널의 "다음 장면" 버튼 클릭 → 3장면, 주소 `scene=alice-3`. 여정 1행 클릭 → 1장면, 주소 `scene=alice-1`. 패널 CTA 클릭 → `#world canvas`, 주소 `book=alice&chapter=alice-1`. 이어서 기존 "작품 소개" 모달 검사와 3D 안 이동·다음 챕터(02) 검사가 그대로 이어진다.
 2. 3D 안 이동·챕터 이동(기존). "책장으로" → `.catalog-card` 2개(기존).
 3. "읽던 작품 이어 보기" → `[data-book="alice"]` 클릭 → 저장된 2장면 행이 선택·배지, 패널 제목 "작아지는 문, 커지는 세계"와 배지 "마지막에 머문 장면", 주소는 `?book=alice`(기본 선택이라 `scene` 없음). CTA 클릭 → `#map-button` 에 "02". `reload` 뒤에도 "02".
 4. `goBack()` → 작품 상세(선택 유지, 주소에 `scene`), 한 번 더 → `.library-page`, `goForward()` 두 번 → 월드.
-5. 홈에서 `[data-scene-chapter="alice-3"]` 클릭 → `.detail-page[data-view="book"]`, 주소 `?book=alice&scene=alice-3`, 3행 선택, 패널 제목 "버섯 숲의 수수께끼", `#panel-preview .reading-text p` 한 문단, `.figure-list li` 3개, 첫 항목 "장면의 중심", 이전 "02", 다음 "04". CTA → 월드 `chapter=alice-3`.
+5. 홈에서 `[data-scene-chapter="alice-3"]` 클릭 → `.detail-page[data-view="book"]`, 주소 `?book=alice&scene=alice-3`, 3행 선택, 패널 제목 "버섯 숲의 수수께끼", 본문 문단 없음, `.figure-list li` 3개, 첫 항목 "장면의 중심", "이전 장면"은 `alice-2`, "다음 장면"은 `alice-4`. 두 버튼은 CTA 바로 아래 한 줄에 같은 폭이고 합친 폭이 CTA 와 같다. CTA → 월드 `chapter=alice-3`.
 6. 홈에서 `.feature-card.is-active`(앨리스) 클릭 → 작품 상세. 로고 → `.feature-card.is-active` 에 초점, 5.6초 뒤에도 유지(기존. 작품 상세에 "책장으로"가 없어져 로고를 누른다).
 7. 주소 직접 열기(기존 7단계에 더해): `?book=alice&scene=alice-2` 는 2행 선택과 패널 2장면, 문서 제목은 책 제목. 나머지(`?book=nope`, `?scene=alice-2`, `?book=alice&chapter=nope`, `?book=alice&scene=nope&preview=draft`, 초안 미리보기의 빈 책장)는 기존 단정 유지.
 8. 홈 화면 관리 묶음("Studio covers…" 단계, 가로챈 응답): `[data-book="alice"]` → `.detail-cover img` 1개; 썸네일이 있는 장면 카드 → 패널 `.scene-panel .scene-image.has-image img` 1개, 그 자리의 폭/높이 비 1.6(±0.02).
@@ -285,8 +282,8 @@ admin/
 
 ## 16. 위험과 대응
 
-- 패널이 화면보다 길면(배치가 많거나 첫 문단이 길면) 패널 안쪽 스크롤이 생긴다. CTA 를 이미지·제목 바로 아래(3번째)에 두어 스크롤 없이 보이게 한다.
-- 장면 선택이 히스토리에 남지 않으므로 "뒤로가기로 직전 장면"은 되지 않는다. 대신 이전·다음 링크와 여정 목록이 항상 보인다. 이 절충은 1안의 결정 사항이다.
+- 패널이 화면보다 길면(배치가 많으면) 패널 안쪽 스크롤이 생긴다. CTA 를 이미지·제목 바로 아래(3번째)에 두어 스크롤 없이 보이게 한다.
+- 장면 선택이 히스토리에 남지 않으므로 "뒤로가기로 직전 장면"은 되지 않는다. 대신 이전·다음 버튼과 여정 목록이 항상 보인다. 이 절충은 1안의 결정 사항이다.
 - `document` 수준 클릭 위임은 3D 월드 화면에는 없어야 한다. `setupDetail()` 의 해제 함수를 `disposeView` 로 두어 다른 화면으로 갈 때 반드시 해제한다.
 - 850px 경계에서 패널과 시트 어느 쪽에도 CTA 가 보이지 않는 순간이 없어야 한다. `aside` 와 `.detail-cta` 의 `display` 를 같은 분기점 850px 로 묶는다.
 - 두 뎁스 검사(`catalog.mjs` 의 장면 상세 블록, `detail.test.js` 의 `sceneDetail` 검사)가 대부분 바뀐다. 실패 지점을 알 수 있게 단계마다 `pass()` 를 둔다.
@@ -328,13 +325,13 @@ admin/
 - 서버 코드는 바꾸지 않는다. `PUT /api/studio` 가 스키마로 파싱해 두 필드를 보존하고, 공개본은 책 객체를 통째로 싣는다.
 
 작품 상세
-- 왼쪽 열 순서는 히어로 → 이 책의 여정 → 저자 소개 → 책 소개 → 원작 정보다. 사용자가 말한 순서대로 저자 소개가 먼저다.
+- 왼쪽 열 순서는 히어로 → 이 책의 여정 → 저자 소개 → 책 소개이고, 책 소개가 왼쪽 열의 끝이다(원작 정보 섹션은 6절대로 없앴다). 사용자가 말한 순서대로 저자 소개가 먼저다.
 - 마크업: `<section class="detail-section detail-intro" id="detail-author" aria-labelledby="detail-author-title">` 안에 `div.section-heading > h2#detail-author-title` "저자 소개", 저자 이름이 있으면 `p.detail-intro-name`, 그리고 `div.detail-prose` 의 문단 `p` 들. 책 소개는 `id="detail-book-intro"`, 제목 "책 소개"이고 이름 줄이 없다.
 - 빈 줄로 문단을 나눈다(장면 본문과 같은 `paragraphsOf()`). 문단 안의 한 줄 바꿈은 `white-space: pre-line` 으로 화면에 남긴다.
 - 비었거나 공백뿐인 필드도 섹션은 그대로 두고, `div.detail-prose` 대신 `p.detail-intro-empty` 에 "저자 소개를 준비 중이에요." 또는 "책 소개를 준비 중이에요."를 보인다. 글자 15px(600px 이하 14px), 줄 간격 1.7, 색 `#7f8982`. 저자 이름은 소개가 비어 있어도 있으면 보이고, 이름이 비어 있으면 이름 줄만 뺀다.
 - 글은 모두 `esc()` 로 이스케이프한다. HTML 은 쓸 수 없다.
 - 모양: 섹션 제목은 여정과 같은 `.section-heading`. 본문 16px, 줄 간격 1.8(600px 이하 15px, 1.75), 색 `#3f4a44`, 최대 폭 680px. 이름 줄 17px, 굵기 650(600px 이하 16px).
-- 등장 효과에서 `.detail-intro` 는 여정·원작 정보와 같은 단계다(5절).
+- 등장 효과에서 `.detail-intro` 는 여정과 같은 단계다(5절).
 
 관리자
 - 책 정보 창의 '소개 문장' 아래에 '저자 소개'(5줄)와 '책 소개'(6줄) `textarea` 를 둔다. 둘 다 `maxlength="5000"` 이고 새 책은 빈 값으로 시작한다.
@@ -342,8 +339,8 @@ admin/
 - 두 칸은 공개 조건이 아니다. 공개에 필요한 것은 기존대로 저자와 권리 정보다.
 
 검사
-- `tests/detail.test.js`: 섹션 마크업과 순서(여정 < 저자 소개 < 책 소개 < 원작 정보), 문단 나눔과 줄 바꿈 보존, 이스케이프, 글이 있으면 준비 중 문구 없음, 비었거나 없는 필드의 준비 중 문구(이름 줄은 유지), 이름 없는 저자 소개, 스키마 기본값과 5000자 제한.
-- `tests/home-admin.mjs`: 책 정보 창에서 두 칸을 채워 저장하면 초안에 남는다. 공개 뒤 `?book=alice` 에서 `#detail-author`·`#detail-book-intro` 가 여정 다음, 원작 정보 앞에 있고, 문단 안 줄 바꿈이 화면에 남는다(`innerText`). 두 칸을 비운 채 공개된 `?book=oz` 에는 작가 이름과 두 준비 중 문구가 보인다.
+- `tests/detail.test.js`: 섹션 마크업과 순서(여정 < 저자 소개 < 책 소개, 책 소개 뒤에 왼쪽 열이 닫힘), 원작 정보 없음, 문단 나눔과 줄 바꿈 보존, 이스케이프, 글이 있으면 준비 중 문구 없음, 비었거나 없는 필드의 준비 중 문구(이름 줄은 유지), 이름 없는 저자 소개, 스키마 기본값과 5000자 제한.
+- `tests/home-admin.mjs`: 책 정보 창에서 두 칸을 채워 저장하면 초안에 남는다. 공개 뒤 `?book=alice` 에서 `#detail-author`·`#detail-book-intro` 가 여정 다음에 있고 책 소개가 왼쪽 열의 마지막이며(`.detail-source` 없음), 문단 안 줄 바꿈이 화면에 남는다(`innerText`). 두 칸을 비운 채 공개된 `?book=oz` 에는 작가 이름과 두 준비 중 문구가 보인다.
 - 문서 스크린샷(14.5)은 시드에 소개가 없으므로 두 섹션이 준비 중 문구로 찍힌다.
 
 문서

diff --git a/README.md b/README.md
@@ -30,8 +30,8 @@ npm start
 - 기존 등록 도서만 표시하며 데모용 작품을 추가하지 않습니다. 공개 도서가 늘어나면 목록과 도서 수가 자동으로 확장됩니다. 발견 화면의 빈 도서 자리는 ‘새로운 이야기 준비 중’으로 표시되고 선택할 수 없습니다. 분류는 관리자 도서 정보에서 정하며, 분류가 없는 예전 데이터는 앨리스 ‘판타지’, 오즈 ‘모험’, 그 밖의 책 ‘문학’으로 표시됩니다.
 - 관리자가 올린 표지는 책장과 작품 상세·작품 소개 창에, 장면 썸네일은 장면 목록과 작품 상세의 장면 패널에 표시됩니다. 등록하지 않은 칸은 크기와 자리만 확보한 빈 칸으로 둡니다.
 - 추천 배너(히어로)는 관리자 **홈 화면** 탭의 슬라이드 순서를 따릅니다. 사진이 있는 슬라이드는 사진이 카드 전체를 채우고 글이 그 위에 놓이며, 사진이 없으면 기본 그림으로 표시합니다. 슬라이드가 없거나 연결된 책이 모두 비공개이면 도서 보관함 순서의 앞 두 권을 보여 줍니다. 슬라이드를 누르면 연결된 책의 작품 상세를 엽니다.
-- 장면 목록은 가로로 넘겨 볼 수 있고, 장면을 누르면 그 장면이 선택된 작품 상세가 열리고, 장면 패널이 첫 문단과 그 장면의 모델을 미리 보여 줍니다. '이 장면부터 걷기' 버튼으로 그 장면의 3D 공간에 들어갑니다. 이전·다음 버튼, 터치 스크롤, 목록에 초점을 둔 상태에서 방향키·Home·End를 지원합니다.
-- 작품 상세 페이지에서 장면 목록(이 책의 여정), 관리자가 쓴 저자 소개·책 소개, 원작 정보를 확인하고 오른쪽 패널(휴대폰에서는 아래에서 올라오는 시트)에서 장면을 고른 뒤 '이 장면부터 걷기'로 3D 공간에 들어가며, 3D 공간 안에서는 **작품 소개** 창으로 작품 정보와 장면 목록을 봅니다. 주소 `?book=<책>`은 작품 상세, `?book=<책>&scene=<장면>`은 그 장면이 선택된 작품 상세, `?book=<책>&chapter=<장면>`은 3D 공간입니다. 작품 상세의 로고나 3D 공간의 **책장으로**로 돌아오면 검색 조건과 위치가 유지되고 **이어 읽기**에서는 이 브라우저에서 방문한 작품을 볼 수 있습니다. 첫 진입 시 안내창은 자동으로 열리지 않으며 이용 방법 버튼으로 볼 수 있습니다.
+- 장면 목록은 가로로 넘겨 볼 수 있고, 장면을 누르면 그 장면이 선택된 작품 상세가 열리고, 장면 패널이 그 장면에서 만나는 모델을 보여 줍니다. '이 장면부터 걷기' 버튼으로 그 장면의 3D 공간에 들어가고, 바로 아래 '이전 장면'·'다음 장면' 버튼으로 이웃 장면을 고릅니다. 이전·다음 버튼, 터치 스크롤, 목록에 초점을 둔 상태에서 방향키·Home·End를 지원합니다.
+- 작품 상세 페이지에서 장면 목록(이 책의 여정)과 관리자가 쓴 저자 소개·책 소개를 확인하고 오른쪽 패널(휴대폰에서는 아래에서 올라오는 시트)에서 장면을 고른 뒤 '이 장면부터 걷기'로 3D 공간에 들어가며, 3D 공간 안에서는 **작품 소개** 창으로 작품 정보·장면 목록·원작 정보를 봅니다. 주소 `?book=<책>`은 작품 상세, `?book=<책>&scene=<장면>`은 그 장면이 선택된 작품 상세, `?book=<책>&chapter=<장면>`은 3D 공간입니다. 작품 상세의 로고나 3D 공간의 **책장으로**로 돌아오면 검색 조건과 위치가 유지되고 **이어 읽기**에서는 이 브라우저에서 방문한 작품을 볼 수 있습니다. 첫 진입 시 안내창은 자동으로 열리지 않으며 이용 방법 버튼으로 볼 수 있습니다.
 - 트레일러는 아래쪽 **온더북 미리보기**에서 직접 열어 재생합니다. 미리보기 이미지는 표시하지 않으며 영상을 닫으면 재생을 멈춥니다.
 - 영상 원본은 `public/trailer.mp4`, 실제 웹 재생본은 `public/trailer-web.mp4`, 재생 전 이미지는 `public/trailer-poster.jpg`입니다. 원본을 교체하면 웹 재생본과 이미지도 함께 갱신해야 합니다.
 - 게임 요소 없이 넓은 공간을 자유롭게 이동합니다. 모델에 접근하면 애니메이션이 반복되고, 범위를 벗어나면 기본 자세로 돌아갑니다. 다시 접근하면 처음부터 재생됩니다.
